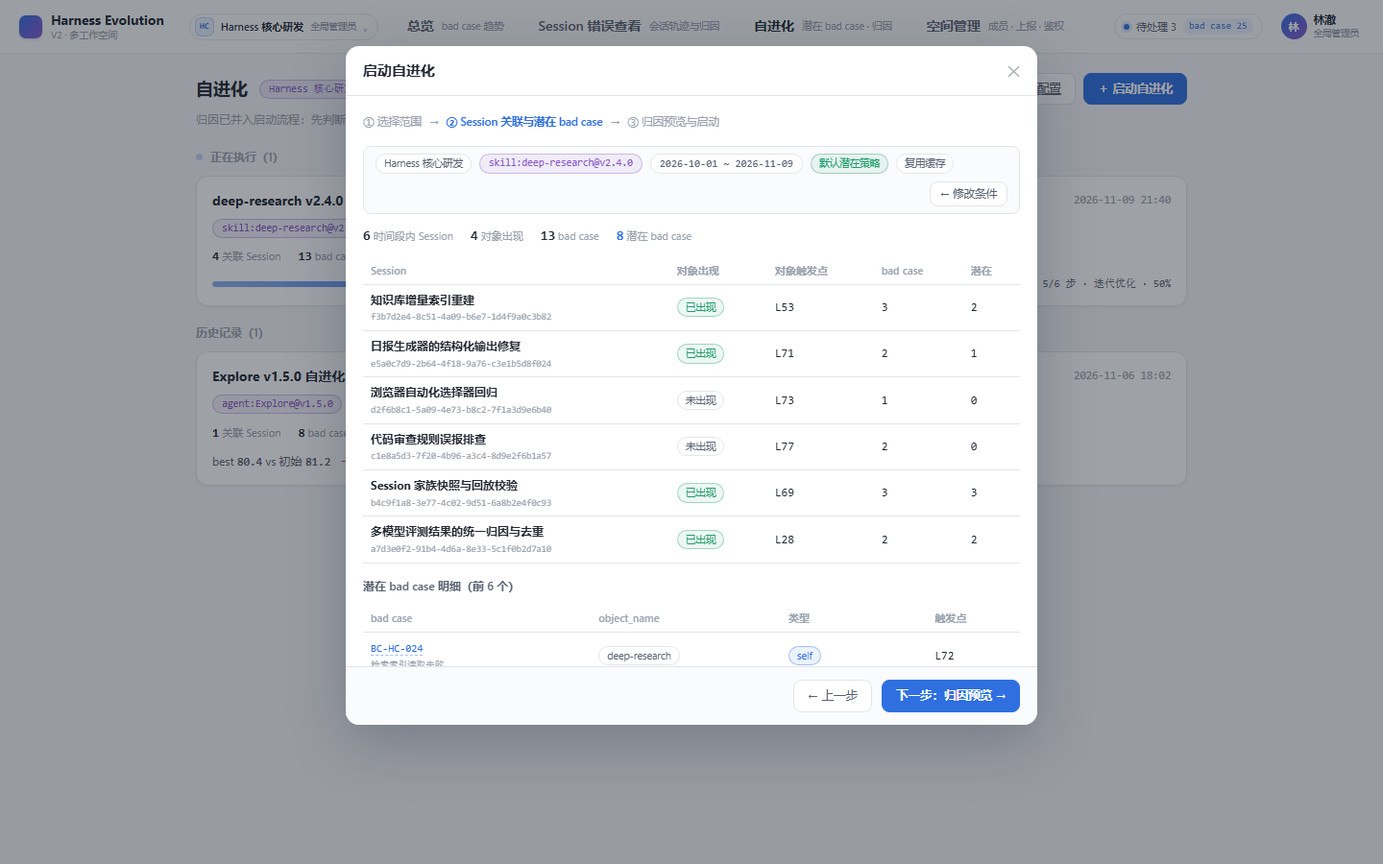
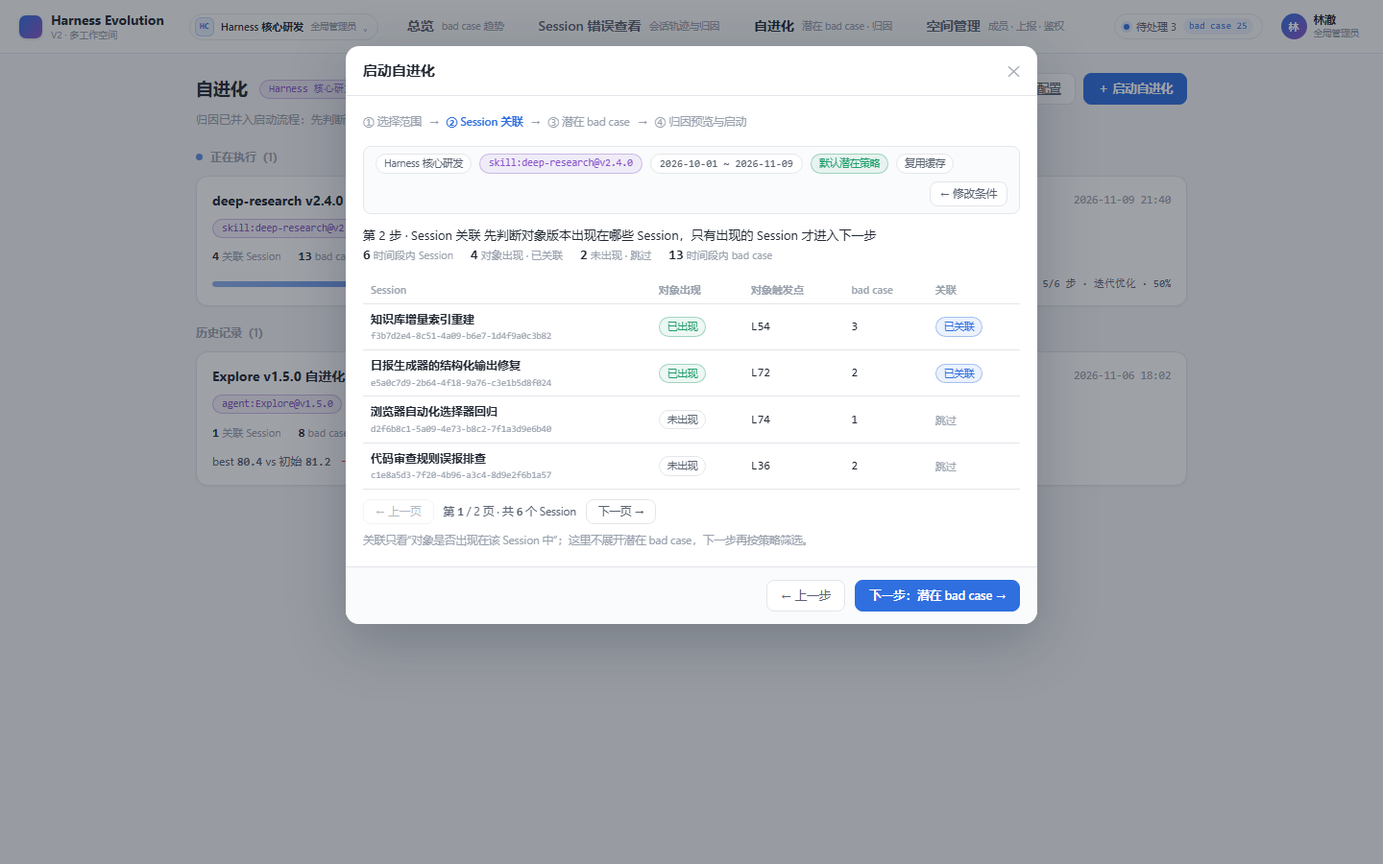
feat(prototype): split evolution wizard association and potential steps

diff --git a/plans/ui-prototype-v2/harness-evolution.html b/plans/ui-prototype-v2/harness-evolution.html
@@ -3576,7 +3576,12 @@ function evStepScope(run) {
 
 function evStepAssoc(run) {
   const m = run.model;
-  const rows = m.sessions.map(a => `<tr>
+  const pageSize = 4;
+  const pages = Math.max(1, Math.ceil(m.sessions.length / pageSize));
+  const page = Math.min(Math.max(1, run.assocPage || 1), pages);
+  run.assocPage = page;
+  const slice = m.sessions.slice((page - 1) * pageSize, page * pageSize);
+  const rows = slice.map(a => `<tr>
     <td><b>${evEsc(a.sess.short)}</b><span class="cell-sub mono">${a.sid}</span></td>
     <td>${a.appeared ? '<span class="v2-badge ok">已出现</span>' : '<span class="v2-badge">未出现</span>'}</td>
     <td class="mono">L${a.line}</td>
@@ -3587,12 +3592,18 @@ function evStepAssoc(run) {
   return `<div class="card panel">
     <div class="sec-title">第 2 步 · Session 关联 <span class="sub">对象版本出现过的 Session 才进入下一步</span></div>
     <table class="rep"><thead><tr><th>Session</th><th>对象出现</th><th>对象触发点</th><th>bad case</th><th>潜在 bad case</th><th>关联</th></tr></thead><tbody>${rows || '<tr><td colspan="6" class="waiting">时间段内没有上报 bad case 的 Session</td></tr>'}</tbody></table>
+    <div class="pager"><button class="btn" data-action="ev-run-page" data-target="assoc" data-id="${run.id}" data-delta="-1" ${page <= 1 ? 'disabled' : ''}>← 上一页</button><span class="pager-info">第 <b>${page}</b> / ${pages} 页 · 共 <b>${m.sessions.length}</b> 个 Session</span><button class="btn" data-action="ev-run-page" data-target="assoc" data-id="${run.id}" data-delta="1" ${page >= pages ? 'disabled' : ''}>下一页 →</button></div>
   </div>`;
 }
 
 function evStepPotential(run) {
   const m = run.model;
-  const rows = m.potentialRows.map(r => {
+  const pageSize = 5;
+  const pages = Math.max(1, Math.ceil(m.potentialRows.length / pageSize));
+  const page = Math.min(Math.max(1, run.potentialPage || 1), pages);
+  run.potentialPage = page;
+  const slice = m.potentialRows.slice((page - 1) * pageSize, page * pageSize);
+  const rows = slice.map(r => {
     const includedBy = r.c.type === 'self' && r.c.objectName === run.target.name
       ? 'self 上报'
       : (r.c.triggerLine > r.a.line ? `触发点 L${r.c.triggerLine} > 对象 L${r.a.line}` : '自定义策略');
@@ -3609,6 +3620,7 @@ function evStepPotential(run) {
     <div class="sec-title">第 3 步 · 潜在 bad case <span class="sub">默认策略：对象自身 self 上报 ∪ 触发点在对象触发点之后</span></div>
     <div class="f-inline" style="margin-bottom:8px"><span class="v2-badge ${run.policy === 'default' ? 'ok' : ''}">${run.policy === 'default' ? '默认策略' : '自定义策略'}</span><span class="v2-note">时间段内共 ${m.cases.length} 个 bad case，筛选出 ${m.potentialRows.length} 个潜在 bad case</span></div>
     <table class="rep"><thead><tr><th>bad case</th><th>object_name</th><th>类型</th><th>bad case 触发点</th><th>对象触发点</th><th>命中原因</th></tr></thead><tbody>${rows || '<tr><td colspan="6" class="waiting">没有命中潜在策略的 bad case</td></tr>'}</tbody></table>
+    <div class="pager"><button class="btn" data-action="ev-run-page" data-target="potential" data-id="${run.id}" data-delta="-1" ${page <= 1 ? 'disabled' : ''}>← 上一页</button><span class="pager-info">第 <b>${page}</b> / ${pages} 页 · 共 <b>${m.potentialRows.length}</b> 个潜在 bad case</span><button class="btn" data-action="ev-run-page" data-target="potential" data-id="${run.id}" data-delta="1" ${page >= pages ? 'disabled' : ''}>下一页 →</button></div>
   </div>`;
 }
 
@@ -3834,7 +3846,7 @@ function evWizardOpen(caseId) {
   EV_STATE.wz = {
     step: 1, kind: first?.kind || 'skill', name: first?.objectName || '', version: first?.tags?.[0] || first?.defaultRef || '',
     from, to, policy: 'default', includeSelf: true, includeAfter: true, sameObject: false,
-    cache: true, focusCase: caseId || null, page: 1, errors: {},
+    cache: true, focusCase: caseId || null, assocPage: 1, casePage: 1, errors: {},
   };
   evRenderWizard();
 }
@@ -3870,6 +3882,7 @@ function evRenderWizard() {
   const { run, m } = evWizardModel();
   const step2 = wz.step >= 2;
   const step3 = wz.step >= 3;
+  const step4 = wz.step >= 4;
   const err = wz.errors || {};
   const fieldErr = k => err[k] ? `<div class="field-error">${evEsc(err[k])}</div>` : '';
   const cond = `<div class="wz-condstrip">
@@ -3878,9 +3891,9 @@ function evRenderWizard() {
     <span class="chip mono">${wz.from} ~ ${wz.to}</span>
     <span class="v2-badge ${wz.policy === 'default' ? 'ok' : ''}">${wz.policy === 'default' ? '默认潜在策略' : '自定义潜在策略'}</span>
     ${wz.cache ? '<span class="v2-badge">复用缓存</span>' : '<span class="v2-badge warn">不复用缓存</span>'}
-    <button class="btn sm" data-action="ev-wz-back" style="margin-left:auto">← 修改条件</button>
+    <button class="btn sm" data-action="ev-wz-edit" style="margin-left:auto">← 修改条件</button>
   </div>`;
-  const steps = `<div class="wz-steps"><span class="${!step2 ? 'on' : ''}">① 选择范围</span> → <span class="${step2 && !step3 ? 'on' : ''}">② Session 关联与潜在 bad case</span> → <span class="${step3 ? 'on' : ''}">③ 归因预览与启动</span></div>`;
+  const steps = `<div class="wz-steps"><span class="${!step2 ? 'on' : ''}">① 选择范围</span> → <span class="${step2 && !step3 ? 'on' : ''}">② Session 关联</span> → <span class="${step3 && !step4 ? 'on' : ''}">③ 潜在 bad case</span> → <span class="${step4 ? 'on' : ''}">④ 归因预览与启动</span></div>`;
 
   let body = '';
   if (wz.step === 1) {
@@ -3915,21 +3928,52 @@ function evRenderWizard() {
       </div>
       ${wz.focusCase ? `<div class="wz-demo"><b>从 bad case 启动</b> · ${evEsc(wz.focusCase)} 已锁定为关注对象；启动后可在归因列表中找到它。</div>` : ''}`;
   } else if (wz.step === 2) {
-    const assocRows = m.sessions.map(a => `<tr><td><b>${evEsc(a.sess.short)}</b><span class="cell-sub mono">${a.sid}</span></td><td>${a.appeared ? '<span class="v2-badge ok">已出现</span>' : '<span class="v2-badge">未出现</span>'}</td><td class="mono">L${a.line}</td><td class="mono">${a.cases.length}</td><td class="mono">${a.potential.length}</td></tr>`).join('');
+    const pageSize = 4;
+    const pages = Math.max(1, Math.ceil(m.sessions.length / pageSize));
+    const page = Math.min(Math.max(1, wz.assocPage || 1), pages);
+    wz.assocPage = page;
+    const slice = m.sessions.slice((page - 1) * pageSize, page * pageSize);
+    const rows = slice.map(a => `<tr><td><b>${evEsc(a.sess.short)}</b><span class="cell-sub mono">${a.sid}</span></td><td>${a.appeared ? '<span class="v2-badge ok">已出现</span>' : '<span class="v2-badge">未出现</span>'}</td><td class="mono">L${a.line}</td><td class="mono">${a.cases.length}</td><td>${a.appeared ? '<span class="v2-badge self">已关联</span>' : '<span class="v2-note">跳过</span>'}</td></tr>`).join('');
     body = `${cond}
+      <div class="wz-section-title">第 2 步 · Session 关联 <span>先判断对象版本出现在哪些 Session，只有出现的 Session 才进入下一步</span></div>
       <div class="wz-stats">
         <span class="st"><b>${m.sessions.length}</b><span>时间段内 Session</span></span>
-        <span class="st"><b>${m.sessions.filter(a => a.appeared).length}</b><span>对象出现</span></span>
-        <span class="st"><b>${m.cases.length}</b><span>bad case</span></span>
+        <span class="st"><b>${m.sessions.filter(a => a.appeared).length}</b><span>对象出现 · 已关联</span></span>
+        <span class="st"><b>${m.sessions.filter(a => !a.appeared).length}</b><span>未出现 · 跳过</span></span>
+        <span class="st"><b>${m.cases.length}</b><span>时间段内 bad case</span></span>
+      </div>
+      <table class="rep"><thead><tr><th>Session</th><th>对象出现</th><th>对象触发点</th><th>bad case</th><th>关联</th></tr></thead><tbody>${rows || '<tr><td colspan="5" class="waiting">时间段内没有上报 bad case 的 Session</td></tr>'}</tbody></table>
+      <div class="pager">
+        <button class="btn" data-action="ev-wz-page" data-target="assoc" data-delta="-1" ${page <= 1 ? 'disabled' : ''}>← 上一页</button>
+        <span class="pager-info">第 <b>${page}</b> / ${pages} 页 · 共 <b>${m.sessions.length}</b> 个 Session</span>
+        <button class="btn" data-action="ev-wz-page" data-target="assoc" data-delta="1" ${page >= pages ? 'disabled' : ''}>下一页 →</button>
+      </div>
+      <div class="wz-note">关联只看“对象是否出现在该 Session 中”；这里不展开潜在 bad case，下一步再按策略筛选。</div>`;
+  } else if (wz.step === 3) {
+    const pageSize = 5;
+    const pages = Math.max(1, Math.ceil(m.potentialRows.length / pageSize));
+    const page = Math.min(Math.max(1, wz.casePage || 1), pages);
+    wz.casePage = page;
+    const slice = m.potentialRows.slice((page - 1) * pageSize, page * pageSize);
+    const rows = slice.map(r => `<tr><td>${evCaseLink(r.c)}<span class="cell-sub">${evEsc(r.c.title)}</span></td><td><span class="v2-badge">${evEsc(r.c.objectName)}</span></td><td>${evCaseType(r.c)}</td><td class="mono">L${r.c.triggerLine}</td><td><b>${evEsc(r.a.sess.short)}</b><span class="cell-sub mono">${r.a.sid}</span></td></tr>`).join('');
+    body = `${cond}
+      <div class="wz-section-title">第 3 步 · 潜在 bad case <span>默认策略：对象自身 self 上报 ∪ 触发点在对象触发点之后</span></div>
+      <div class="wz-stats">
+        <span class="st"><b>${m.sessions.filter(a => a.appeared).length}</b><span>关联 Session</span></span>
+        <span class="st"><b>${m.cases.length}</b><span>时间段内 bad case</span></span>
         <span class="st accent"><b>${m.potentialRows.length}</b><span>潜在 bad case</span></span>
+        <span class="st"><b>${m.potentialRows.filter(r => r.c.type === 'self' && r.c.objectName === run.target.name).length}</b><span>self 命中</span></span>
       </div>
-      <table class="rep"><thead><tr><th>Session</th><th>对象出现</th><th>对象触发点</th><th>bad case</th><th>潜在</th></tr></thead><tbody>${assocRows || '<tr><td colspan="5" class="waiting">时间段内没有上报 bad case 的 Session</td></tr>'}</tbody></table>
-      <div class="f-row" style="margin-top:14px"><div class="f-label">潜在 bad case 明细（前 6 个）</div>
-        ${m.potentialRows.length ? `<table class="rep"><thead><tr><th>bad case</th><th>object_name</th><th>类型</th><th>触发点</th></tr></thead><tbody>${m.potentialRows.slice(0, 6).map(r => `<tr><td>${evCaseLink(r.c)}<span class="cell-sub">${evEsc(r.c.title)}</span></td><td><span class="v2-badge">${evEsc(r.c.objectName)}</span></td><td>${evCaseType(r.c)}</td><td class="mono">L${r.c.triggerLine}</td></tr>`).join('')}</tbody></table>` : '<div class="waiting">当前策略没有命中潜在 bad case；可返回调整时间段或策略。</div>'}
+      <table class="rep"><thead><tr><th>bad case</th><th>object_name</th><th>类型</th><th>触发点</th><th>来源 Session</th></tr></thead><tbody>${rows || '<tr><td colspan="5" class="waiting">当前策略没有命中潜在 bad case；可返回调整时间段或策略。</td></tr>'}</tbody></table>
+      <div class="pager">
+        <button class="btn" data-action="ev-wz-page" data-target="case" data-delta="-1" ${page <= 1 ? 'disabled' : ''}>← 上一页</button>
+        <span class="pager-info">第 <b>${page}</b> / ${pages} 页 · 共 <b>${m.potentialRows.length}</b> 个潜在 bad case</span>
+        <button class="btn" data-action="ev-wz-page" data-target="case" data-delta="1" ${page >= pages ? 'disabled' : ''}>下一页 →</button>
       </div>
-      <div class="wz-note">默认策略 = 对象 self 上报 ∪ 触发点在对象之后；这里只预览候选集，归因在下一步生成。</div>`;
+      <div class="wz-note">默认策略 = 对象 self 上报 ∪ 触发点在对象之后；自定义策略可回第 1 步调整。归因在下一步生成。</div>`;
   } else {
     body = `${cond}
+      <div class="wz-section-title">第 4 步 · 归因预览与启动 <span>确认缓存策略后启动；归因结果会写回该对象版本</span></div>
       <div class="cache-option"><div><b>复用缓存归因</b><div class="v2-note" style="margin-top:2px">如果该对象版本已经对某个潜在 bad case 做过归因，直接复用最近一次成功结果。</div></div><label class="switch"><input type="checkbox" ${wz.cache ? 'checked' : ''} data-action="ev-wz-cache"><span class="slider"></span></label></div>
       <div class="preview-stats">
         <div class="preview-stat"><strong>${m.potentialRows.length}</strong><span>潜在 bad case</span></div>
@@ -3946,8 +3990,9 @@ function evRenderWizard() {
       <div class="modal-body">${steps}${body}</div>
       <div class="modal-foot">
         ${wz.step === 1 ? `<button class="btn primary" data-action="ev-wz-next">下一步：关联 Session →</button>` : ''}
-        ${wz.step === 2 ? `<button class="btn" data-action="ev-wz-back">← 上一步</button><button class="btn primary" data-action="ev-wz-next">下一步：归因预览 →</button>` : ''}
-        ${wz.step === 3 ? `<button class="btn" data-action="ev-wz-back">← 上一步</button><button class="btn primary" data-action="ev-wz-start">启动自进化 →</button>` : ''}
+        ${wz.step === 2 ? `<button class="btn" data-action="ev-wz-back">← 上一步</button><button class="btn primary" data-action="ev-wz-next">下一步：潜在 bad case →</button>` : ''}
+        ${wz.step === 3 ? `<button class="btn" data-action="ev-wz-back">← 上一步</button><button class="btn primary" data-action="ev-wz-next">下一步：归因预览 →</button>` : ''}
+        ${wz.step === 4 ? `<button class="btn" data-action="ev-wz-back">← 上一步</button><button class="btn primary" data-action="ev-wz-start">启动自进化 →</button>` : ''}
       </div>
     </div></div>`;
 }
@@ -3979,6 +4024,7 @@ document.addEventListener('click', e => {
   if (a === 'ev-open-run') { EV_STATE.expanded.clear(); EV_STATE.lastDetailId = null; location.hash = '#/run/' + el.dataset.id; }
   else if (a === 'ev-toggle-cluster') { const k = el.dataset.key; EV_STATE.expanded.has(k) ? EV_STATE.expanded.delete(k) : EV_STATE.expanded.add(k); evRoute(); }
   else if (a === 'ev-sel-step') { EV_STATE.selStep = +el.dataset.step; evRoute(); }
+  else if (a === 'ev-run-page') { const run = EV_RUNS.find(r => r.id === el.dataset.id); if (!run) return; const key = el.dataset.target === 'assoc' ? 'assocPage' : 'potentialPage'; run[key] = Math.max(1, (run[key] || 1) + Number(el.dataset.delta || 0)); evRenderDetail(run.id); }
   else if (a === 'ev-advance') {
     const run = EV_RUNS.find(r => r.id === el.dataset.id);
     if (run && !evIsDone(run)) { run.progress++; EV_STATE.expanded.clear(); EV_STATE.selStep = null; evRenderDetail(run.id); }
@@ -3988,14 +4034,16 @@ document.addEventListener('click', e => {
   else if (a === 'ev-wz-targets') { evModal.innerHTML = ''; location.hash = '#/targets'; }
   else if (a === 'ev-wz-close') { evModal.innerHTML = ''; }
   else if (a === 'ev-wz-close-bg') { if (e.target === el) evModal.innerHTML = ''; }
-  else if (a === 'ev-wz-kind') { evSyncWz(); const wz = EV_STATE.wz; wz.kind = el.dataset.v; const t = evWzTargets()[0]; wz.name = t?.objectName || ''; wz.version = t?.tags?.[0] || t?.defaultRef || ''; evRenderWizard(); }
-  else if (a === 'ev-wz-policy') { evSyncWz(); EV_STATE.wz.policy = el.dataset.v; evRenderWizard(); }
-  else if (a === 'ev-wz-rule') { evSyncWz(); EV_STATE.wz[el.dataset.rule] = !!el.checked; evRenderWizard(); }
+  else if (a === 'ev-wz-kind') { evSyncWz(); const wz = EV_STATE.wz; wz.kind = el.dataset.v; const t = evWzTargets()[0]; wz.name = t?.objectName || ''; wz.version = t?.tags?.[0] || t?.defaultRef || ''; wz.assocPage = 1; wz.casePage = 1; evRenderWizard(); }
+  else if (a === 'ev-wz-policy') { evSyncWz(); EV_STATE.wz.policy = el.dataset.v; EV_STATE.wz.assocPage = 1; EV_STATE.wz.casePage = 1; evRenderWizard(); }
+  else if (a === 'ev-wz-rule') { evSyncWz(); EV_STATE.wz[el.dataset.rule] = !!el.checked; EV_STATE.wz.assocPage = 1; EV_STATE.wz.casePage = 1; evRenderWizard(); }
   else if (a === 'ev-wz-cache') { evSyncWz(); EV_STATE.wz.cache = !!el.checked; evRenderWizard(); }
   else if (a === 'ev-wz-back') { evSyncWz(); EV_STATE.wz.step = Math.max(1, EV_STATE.wz.step - 1); evRenderWizard(); }
+  else if (a === 'ev-wz-edit') { evSyncWz(); EV_STATE.wz.step = 1; evRenderWizard(); }
+  else if (a === 'ev-wz-page') { if (!EV_STATE.wz) return; const key = el.dataset.target === 'assoc' ? 'assocPage' : 'casePage'; EV_STATE.wz[key] = Math.max(1, (EV_STATE.wz[key] || 1) + Number(el.dataset.delta || 0)); evRenderWizard(); }
   else if (a === 'ev-wz-next') {
     if (EV_STATE.wz.step === 1 && !evValidateWz()) { evRenderWizard(); return; }
-    evSyncWz(); EV_STATE.wz.step = Math.min(3, EV_STATE.wz.step + 1); evRenderWizard();
+    evSyncWz(); const fromStep = EV_STATE.wz.step; EV_STATE.wz.step = Math.min(4, EV_STATE.wz.step + 1); if (EV_STATE.wz.step === 2) EV_STATE.wz.assocPage = 1; if (EV_STATE.wz.step === 3) EV_STATE.wz.casePage = 1; evRenderWizard();
   }
   else if (a === 'ev-wz-start') {
     evSyncWz();
@@ -4022,7 +4070,7 @@ document.addEventListener('click', e => {
 });
 document.addEventListener('change', e => {
   if (!EV_STATE.wz) return;
-  if (e.target.id === 'ev-wz-name') { evSyncWz(); const t = evWzTarget(); EV_STATE.wz.version = t?.tags?.[0] || t?.defaultRef || ''; evRenderWizard(); }
+  if (e.target.id === 'ev-wz-name') { evSyncWz(); const t = evWzTarget(); EV_STATE.wz.version = t?.tags?.[0] || t?.defaultRef || ''; EV_STATE.wz.assocPage = 1; EV_STATE.wz.casePage = 1; evRenderWizard(); }
   else if (e.target.id === 'ev-wz-version') { evSyncWz(); }
   else if (e.target.id === 'ev-wz-from' || e.target.id === 'ev-wz-to') { evSyncWz(); }
 });
@@ -4879,12 +4927,16 @@ function v2Boot() {
       window.__v2SelectSession(q.get('sid'));
     }
     const demo = q.get('demo');
-    if (demo === 'wizard1' || demo === 'wizard2' || demo === 'wizard3') {
+    if (demo === 'wizard1' || demo === 'wizard2' || demo === 'wizard3' || demo === 'wizard4') {
       setTimeout(() => {
         if (!window.__evOpenWizard) return;
         window.__evOpenWizard(q.get('case') || null);
-        const n = demo === 'wizard1' ? 1 : demo === 'wizard2' ? 2 : 3;
-        if (window.__evState && window.__evState.wz) window.__evState.wz.step = n;
+        const n = Number(demo.slice(-1));
+        if (window.__evState && window.__evState.wz) {
+          window.__evState.wz.step = n;
+          if (q.has('wzassoc')) window.__evState.wz.assocPage = Number(q.get('wzassoc')) || 1;
+          if (q.has('wzcase')) window.__evState.wz.casePage = Number(q.get('wzcase')) || 1;
+        }
         if (window.__evRenderWizard) window.__evRenderWizard();
       }, 300);
     } else if (demo === 'workspace') {

diff --git a/plans/ui-prototype-v2/v1-v2-report.html b/plans/ui-prototype-v2/v1-v2-report.html
@@ -150,7 +150,7 @@
           <li>顶栏增加工作空间切换器与用户菜单；多一个「总览」页签</li>
           <li>Session 默认 10 条，搜索从“实时过滤”改为“回车查询 root session ID”</li>
           <li>错误详情左栏从平铺错误卡改为可折叠 bad case 组 + 归因子列表</li>
-          <li>自进化向导从 2 步扩展为 3 步：范围 → 关联/潜在 → 归因预览</li>
+          <li>自进化向导从 2 步扩展为 4 步：范围 → Session 关联 → 潜在 bad case → 归因预览</li>
           <li>运行详情步骤从「筛选/聚类/归因」改为「范围/关联/潜在/归因」</li>
           <li>新增登录、总览、空间管理；全部复用 V1 控件</li>
         </ul>
@@ -169,7 +169,7 @@
         <tr><td>3</td><td><b>空间上报接口与 bad case 额度</b></td><td>每空间独立 <code>POST /api/workspaces/{id}/bad-cases</code>、凭据、额度、请求体示例；创建后可调额度；409 说明</td><td>上报接入截图</td></tr>
         <tr><td>4</td><td><b>空间总览：object × 时间 × self/discovery，列表分页下钻</b></td><td>总览页：日/周/月、object_name 多选、self/discovery 堆叠、对象分布、组合筛选列表、点击行进入对应 bad case 问题描述</td><td>总览截图</td></tr>
         <tr><td>5</td><td><b>Session 默认 10 个；输入 session ID 回车重查</b></td><td>侧栏显示「最新 10 / 13」；输入 root session ID 回车命中老 Session；清空回车恢复 10 条；无命中空态</td><td>Session 截图</td></tr>
-        <tr><td>6</td><td><b>归因进入自进化流程；对象关联、潜在策略、缓存</b></td><td>向导 3 步；详情 6 步；默认策略 = self ∪ 触发点在对象之后；自定义规则；缓存开关与复用/新增/非该对象统计</td><td>向导 2/3 步截图</td></tr>
+        <tr><td>6</td><td><b>归因进入自进化流程；对象关联、潜在策略、缓存</b></td><td>向导 4 步（关联 / 潜在各自分页）；详情 6 步；默认策略 = self ∪ 触发点在对象之后；自定义规则；缓存开关与复用/新增/非该对象统计</td><td>向导 2/3 步截图</td></tr>
         <tr><td>7</td><td><b>错误详情：一个 bad case 多条归因，左栏可折叠 + 分页</b></td><td>bad case 组折叠；每组归因子项按对象版本分页（2 条/页）；点击子项进入归因分析；未归因状态</td><td>错误详情截图</td></tr>
       </tbody>
     </table>
@@ -262,23 +262,24 @@
         <div class="cap">V1：筛选条件直接命中「问题报告」，归因发生在运行内部的第 3 步；输入没有 Session 关联与潜在策略概念。</div>
       </div>
       <div class="shot">
-        <div class="bar"><b>V2 · 向导第 2 步</b><span class="tag">Session 关联 + 潜在 bad case</span></div>
+        <div class="bar"><b>V2 · 向导第 2 步</b><span class="tag">Session 关联 · 分页</span></div>
         <a href="screenshots-v2/v2-wizard-step2.png" target="_blank"><img src="screenshots-v2/v2-wizard-step2.png" alt="V2 向导第 2 步"></a>
-        <div class="cap">V2：先展示时间段内 Session、对象出现与否、对象触发点与潜在数量；下方是潜在 bad case 明细。</div>
+        <div class="cap">V2：先看关联 Session 数量与“对象出现/未出现”结果；表格分页（4 个/页），下一步才进入潜在 bad case。</div>
       </div>
     </div>
     <div class="compare" style="margin-top:12px">
       <div class="shot">
-        <div class="bar"><b>V2 · 向导第 3 步</b><span class="tag">缓存 + 归因预览 + 启动</span></div>
+        <div class="bar"><b>V2 · 向导第 3 步</b><span class="tag">潜在 bad case · 分页</span></div>
         <a href="screenshots-v2/v2-wizard-step3.png" target="_blank"><img src="screenshots-v2/v2-wizard-step3.png" alt="V2 向导第 3 步"></a>
-        <div class="cap">「复用缓存归因」开关；预览潜在 / 复用 / 新增 / 非该对象四类数量；缓存键包含空间、bad case、对象版本、策略与模型版本。</div>
+        <div class="cap">V2：单独看潜在 bad case 数量与明细，表格分页（5 个/页），显示 object_name、类型、触发点与来源 Session。</div>
       </div>
       <div class="shot">
-        <div class="bar"><b>V2 · 向导第 1 步</b><span class="tag">默认值与自定义策略</span></div>
-        <a href="screenshots-v2/v2-wizard-step1.png" target="_blank"><img src="screenshots-v2/v2-wizard-step1.png" alt="V2 向导第 1 步"></a>
-        <div class="cap">对象/版本有默认值；默认策略说明与自定义策略（self、触发点之后、仅同 object_name）在同一屏选择。</div>
+        <div class="bar"><b>V2 · 向导第 4 步</b><span class="tag">缓存 + 归因预览 + 启动</span></div>
+        <a href="screenshots-v2/v2-wizard-step4.png" target="_blank"><img src="screenshots-v2/v2-wizard-step4.png" alt="V2 向导第 4 步"></a>
+        <div class="cap">「复用缓存归因」开关；预览潜在 / 复用 / 新增 / 非该对象四类数量；缓存键包含空间、bad case、对象版本、策略与模型版本。</div>
       </div>
     </div>
+    <div class="note" style="margin-top:12px">本次迭代把原第 2 步拆成两步：<b>第 2 步只看关联 Session</b>（4 条/页），<b>第 3 步只看潜在 bad case</b>（5 条/页）；归因预览移到第 4 步。修改前后对照见 <a href="screenshots-v2/v2-wizard-split-before-after.png" target="_blank">拆分前后截图</a>。</div>
     <h3>运行详情：把“为什么进入这次进化”讲清楚</h3>
     <div class="compare">
       <div class="shot">
@@ -473,7 +474,7 @@
           <li>空间切换；总览多选 object、粒度、分页、行下钻</li>
           <li>Session 默认 10/13、ID 回车命中、无命中空态</li>
           <li>错误详情折叠、归因子项分页/切换、未归因态</li>
-          <li>自进化向导 3 步、缓存开关、启动生成运行</li>
+          <li>自进化向导 4 步、缓存开关、启动生成运行</li>
           <li>创建空间、调额度、添加成员、把自己设为管理员</li>
           <li>上报地址/凭据复制、curl 示例、鉴权接入说明</li>
         </ul>

diff --git a/plans/ui-prototype-v2/index.html b/plans/ui-prototype-v2/index.html
@@ -33,7 +33,7 @@
     <a class="card" href="harness-evolution.html">
       <span class="issue">V2 主原型</span>
       <h2>Harness Evolution V2 · 多工作空间 →</h2>
-      <p>登录页默认打开。全局管理员、空间管理员、普通成员三种视图；总览 → bad case 列表 → Session 错误详情 → 多归因；自进化向导 → Session 关联 → 潜在 bad case → 缓存归因；空间创建、额度、成员、上报接入与鉴权接入。</p>
+      <p>登录页默认打开。全局管理员、空间管理员、普通成员三种视图；总览 → bad case 列表 → Session 错误详情 → 多归因；自进化向导 → Session 关联（分页）→ 潜在 bad case（分页）→ 缓存归因；空间创建、额度、成员、上报接入与鉴权接入。</p>
     </a>
     <div class="grid2">
       <a class="card" href="harness-evolution.html?u=admin&page=overview">
@@ -42,7 +42,7 @@
       </a>
       <a class="card" href="harness-evolution.html?u=admin&page=evo&demo=wizard2">
         <span class="issue">演示入口</span><h2>自进化向导 →</h2>
-        <p>直接打开第 2 步：Session 关联、对象触发点与潜在 bad case 预览。</p>
+        <p>直接打开第 2 步：Session 关联结果与分页，第 3 步再看潜在 bad case。</p>
       </a>
       <a class="card" href="harness-evolution.html?u=admin&page=admin">
         <span class="issue">演示入口</span><h2>空间管理 →</h2>
@@ -66,7 +66,7 @@
       <p>本目录由该目录完整拷贝而来；V1 文件未改动，用于对照截图和迁移回归。</p>
     </a>
   </div>
-  <p class="note">所有数据为打桩样例，不写入生产库。Session 家族树与执行流依赖 CDN 的 React / React Flow；离线时家族树会显示加载失败提示，其余页面仍可浏览。V2 的演示参数：<code>?u=admin|liwei|chenyu|zhaomin</code>、<code>&amp;page=overview|session|evo|admin</code>、<code>&amp;demo=wizard1|wizard2|wizard3|workspace|member</code>。</p>
+  <p class="note">所有数据为打桩样例，不写入生产库。Session 家族树与执行流依赖 CDN 的 React / React Flow；离线时家族树会显示加载失败提示，其余页面仍可浏览。V2 的演示参数：<code>?u=admin|liwei|chenyu|zhaomin</code>、<code>&amp;page=overview|session|evo|admin</code>、<code>&amp;demo=wizard1|wizard2|wizard3|wizard4|workspace|member</code>。</p>
 </div>
 </body>
 </html>

diff --git a/plans/ui-prototype-v2/design-v2.md b/plans/ui-prototype-v2/design-v2.md
@@ -153,6 +153,8 @@ Content-Type: application/json
   → 归因后的 bad case 进入聚类 / 迭代 / 终评
 ```
 
+原型把 Session 关联与潜在 bad case 拆成向导第 2、3 步：第 2 步只看关联 Session（分页），第 3 步只看潜在 bad case（分页），第 4 步才做归因预览与启动。
+
 实现上，`association` 只包含对象出现过的 Session；未出现的 Session 显示“跳过”。潜在 bad case 默认策略：
 
 ```text
@@ -170,7 +172,7 @@ OR (bad_case.trigger_line > object.trigger_line)
 
 ### 7.2 缓存
 
-启动向导第三步提供「复用缓存归因」开关。缓存键至少包含：
+启动向导第四步提供「复用缓存归因」开关。缓存键至少包含：
 
 ```text
 workspace_id + bad_case_id + object_identity + object_version + policy_version + attribution_model/prompt_version
@@ -224,6 +226,6 @@ workspace_id + bad_case_id + object_identity + object_version + policy_version +
 
 ## 11. 原型验收与边界
 
-- 已验证：登录 / 空间切换 / 总览筛选与分页 / 总览下钻 / 最新 10 条与空态 / 错误详情多归因折叠与分页 / 向导三步与缓存 / 空间创建与额度调整 / 成员添加与角色 / 上报接入 / 鉴权接入。
+- 已验证：登录 / 空间切换 / 总览筛选与分页 / 总览下钻 / 最新 10 条与空态 / 错误详情多归因折叠与分页 / 向导四步与缓存 / 空间创建与额度调整 / 成员添加与角色 / 上报接入 / 鉴权接入。
 - 渲染：headless Chrome 1440/1600 宽，无 console error；执行流依赖 CDN 的 React / React Flow。
 - 未实现：真实鉴权、持久化、统计聚合 SQL、上报写入事务、归因算法、SSO 回调、跨空间 403/404 的服务端测试。前端权限仅是体验护栏。
